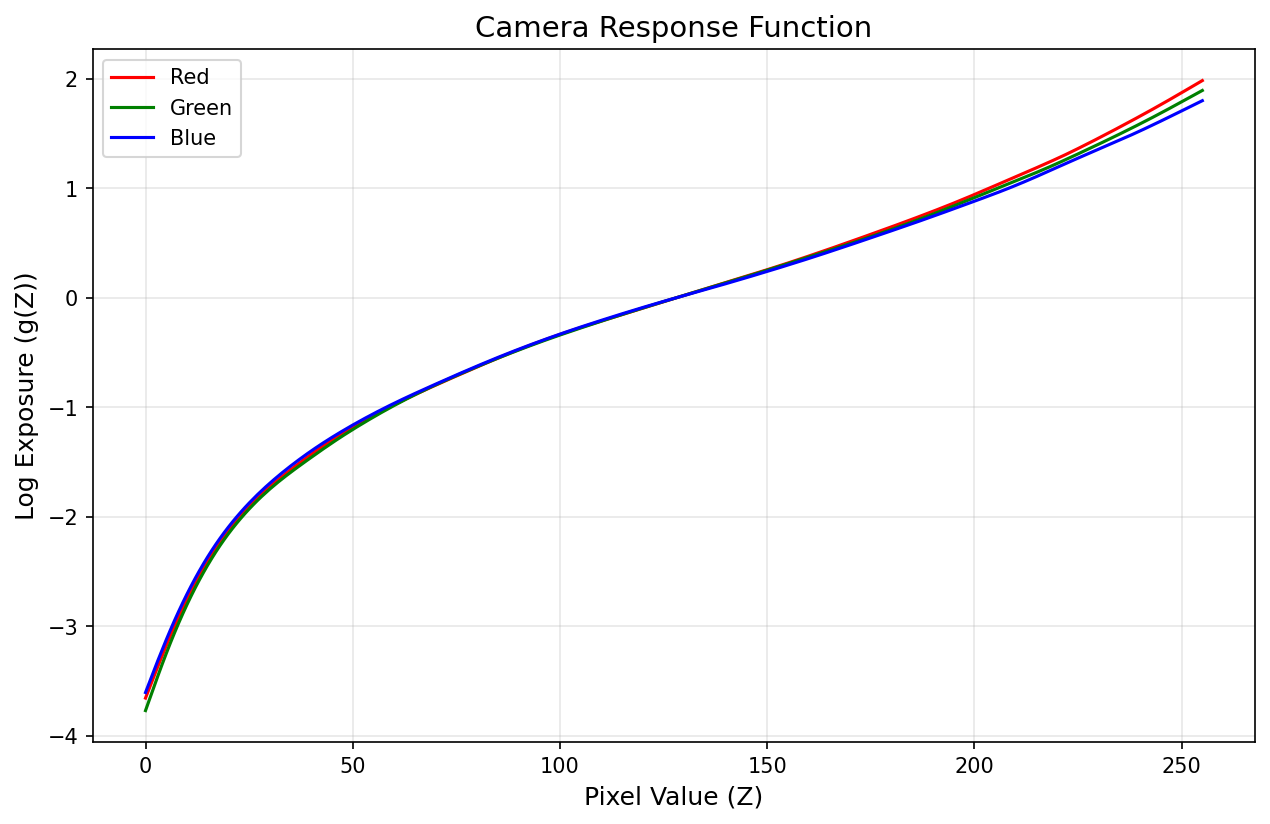
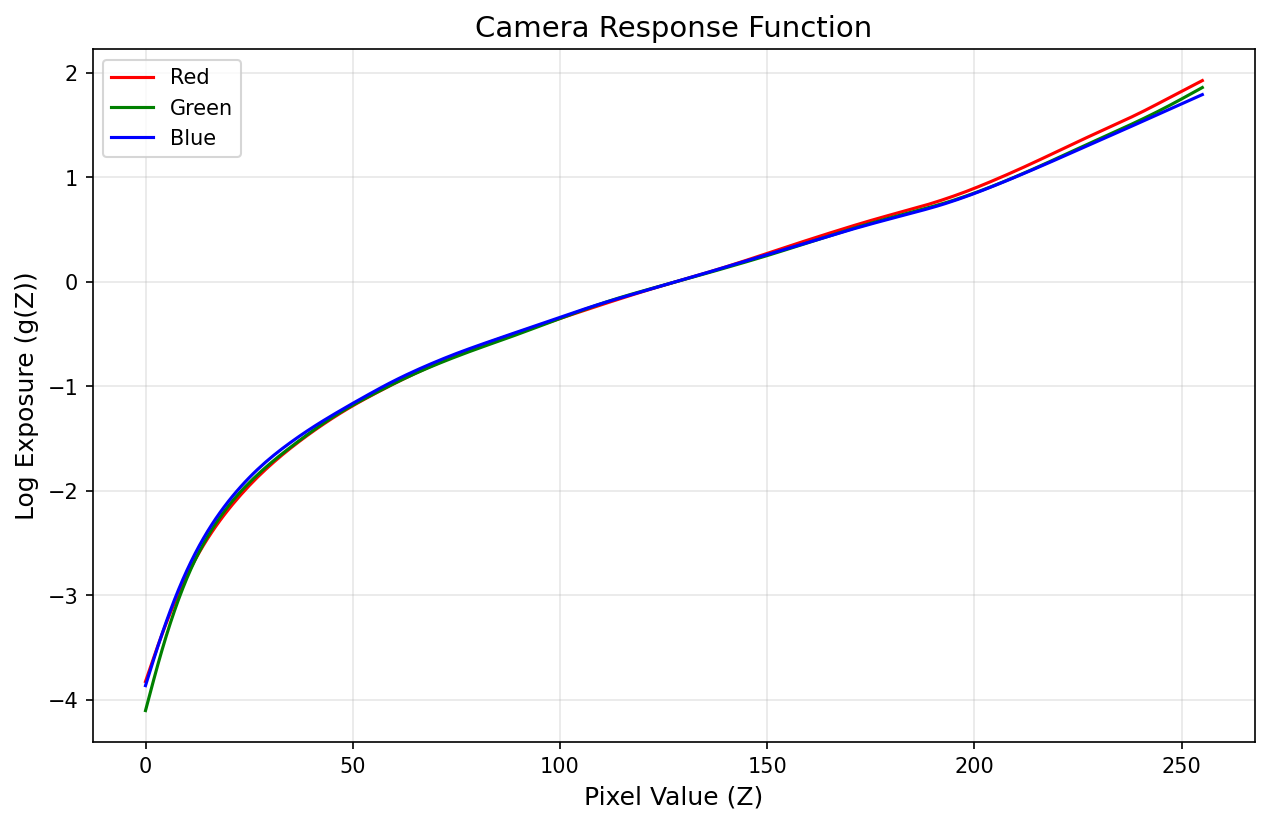
ajout courbe dans l'autre sens set zssimplification code

diff --git a/scripts/create_hdr.py b/scripts/create_hdr.py
@@ -1,0 +1,183 @@
+
+"""
+Script fusionné pour la création d'image HDR à partir de séquences PNG ou JPG.
+Paramètres utilisateurs configurables ci-dessous.
+"""
+
+# === PARAMÈTRES UTILISATEUR ===
+# Type d'images à charger : 'png' ou 'jpg'
+MODE = 'png'  # ou 'jpg'
+# Calculer uniquement les courbes de réponse (True = plus rapide, pas de HDR)
+ONLY_RESPONSE_CURVES = True
+# Chemin du dossier d'entrée (images)
+IMAGE_FOLDER_PNG = "../images/reduced/scene_1"
+IMAGE_FOLDER_JPG = "../images/Images_supop/Scène 1"
+# Chemin de sauvegarde des courbes de réponse
+RESPONSE_CURVE_PATH = 'response_curves.png'
+# Chemin de sauvegarde du fichier HDR
+HDR_OUTPUT_PATH = 'output_hdr.hdr'
+# Nombre de points à sélectionner pour la courbe de réponse
+NUM_SAMPLES = 20
+# Paramètre de lissage lambda
+LAMBDA_SMOOTH = 50.0
+# =============================
+
+import numpy as np
+import matplotlib.pyplot as plt
+from pathlib import Path
+import imageio.v3 as imageio
+from PIL import Image
+from PIL.ExifTags import TAGS
+from debevec import hdr_debevec, save_hdr
+
+def load_exposure_sequence_png(image_folder: str | Path) -> tuple[list[np.ndarray], np.ndarray]:
+    """
+    Charge une séquence d'images PNG (ou PPM) et les temps d'exposition depuis un fichier texte.
+    """
+    image_folder = Path(image_folder)
+    hdr_list_file = image_folder / "hdr_image_list.txt"
+    if not hdr_list_file.exists():
+        raise FileNotFoundError(f"Fichier non trouvé : {hdr_list_file}")
+    print(f"Lecture du fichier : {hdr_list_file}")
+    image_files = []
+    exposure_times = []
+    with open(hdr_list_file, 'r') as f:
+        for line in f:
+            line = line.strip()
+            if line.startswith('#') or not line:
+                continue
+            parts = line.split()
+            if len(parts) >= 2:
+                filename = parts[0]
+                exposure_time = float(1/float(parts[1]))
+                img_path = image_folder / filename
+                if not img_path.exists():
+                    img_path = image_folder / filename.replace('.ppm', '.png')
+                image_files.append(img_path)
+                exposure_times.append(exposure_time)
+    if not image_files:
+        raise ValueError(f"Aucune image trouvée dans {hdr_list_file}")
+    images = []
+    for img_file in image_files:
+        if not img_file.exists():
+            raise FileNotFoundError(f"Image introuvable : {img_file}")
+        img = imageio.imread(img_file)
+        images.append(img)
+    exposure_times = np.array(exposure_times)
+    print(f"Loaded {len(images)} PNG images")
+    print(f"Exposure times: {exposure_times}")
+    return images, exposure_times
+
+def load_exposure_sequence_jpg(image_folder: str | Path) -> tuple[list[np.ndarray], np.ndarray]:
+    """
+    Charge toutes les images JPG d'un dossier et récupère le temps d'exposition depuis les EXIF.
+    """
+    image_folder = Path(image_folder)
+    image_files = sorted([f for f in image_folder.iterdir() if f.suffix.lower() in ['.jpg', '.jpeg']])
+    if not image_files:
+        raise ValueError(f"Aucune image JPG trouvée dans {image_folder}")
+    images = []
+    exposure_times = []
+    for img_path in image_files:
+        img = imageio.imread(img_path)
+        images.append(img)
+        try:
+            pil_img = Image.open(img_path)
+            exif_data = pil_img._getexif()
+            exposure = None
+            if exif_data:
+                for tag, value in exif_data.items():
+                    tag_name = TAGS.get(tag, tag)
+                    if tag_name == 'ExposureTime':
+                        if isinstance(value, tuple) and len(value) == 2:
+                            exposure = value[0] / value[1]
+                        else:
+                            exposure = float(value)
+                        break
+            if exposure is None:
+                print(f"[Avertissement] ExposureTime non trouvé pour {img_path}, valeur par défaut 1.0s utilisée.")
+                exposure = 1.0
+            exposure_times.append(exposure)
+        except Exception as e:
+            print(f"[Erreur] Impossible de lire EXIF pour {img_path}: {e}. Valeur par défaut 1.0s utilisée.")
+            exposure_times.append(1.0)
+    exposure_times = np.array(exposure_times)
+    print(f"Loaded {len(images)} JPG images")
+    print(f"Exposure times: {exposure_times}")
+    return images, exposure_times
+
+def plot_response_curves(response_curves: np.ndarray, save_path: str | None = None) -> None:
+    # Courbe classique : g(Z) en fonction de Z
+    plt.figure(figsize=(10, 6))
+    if response_curves.ndim == 1:
+        plt.plot(range(256), response_curves, 'k-', label='Grayscale')
+    else:
+        colors = ['red', 'green', 'blue']
+        labels = ['Red', 'Green', 'Blue']
+        for i, (color, label) in enumerate(zip(colors, labels)):
+            plt.plot(range(256), response_curves[i], color=color, label=label)
+    plt.xlabel('Pixel Value (Z)', fontsize=12)
+    plt.ylabel('Log Exposure (g(Z))', fontsize=12)
+    plt.title('Camera Response Function', fontsize=14)
+    plt.grid(True, alpha=0.3)
+    plt.legend()
+    if save_path:
+        plt.savefig(save_path, dpi=150, bbox_inches='tight')
+        print(f"Response curve saved to {save_path}")
+    plt.show()
+
+    # Courbe inversée : Z en fonction de g(Z)
+    plt.figure(figsize=(10, 6))
+    if response_curves.ndim == 1:
+        plt.plot(response_curves, range(256), 'k-', label='Grayscale')
+    else:
+        colors = ['red', 'green', 'blue']
+        labels = ['Red', 'Green', 'Blue']
+        for i, (color, label) in enumerate(zip(colors, labels)):
+            plt.plot(response_curves[i], range(256), color=color, label=label)
+    plt.xlabel('Log Exposure (g(Z))', fontsize=12)
+    plt.ylabel('Pixel Value (Z)', fontsize=12)
+    plt.title('Inverse Camera Response Function', fontsize=14)
+    plt.grid(True, alpha=0.3)
+    plt.legend()
+    if save_path:
+        inv_path = save_path.replace('.png', '_inverse.png')
+        plt.savefig(inv_path, dpi=150, bbox_inches='tight')
+        print(f"Inverse response curve saved to {inv_path}")
+    plt.show()
+
+def main():
+    print("=== HDR Image Creation using Debevec Algorithm ===\n")
+
+    if MODE == 'png':
+        image_folder = IMAGE_FOLDER_PNG
+        images, exposure_times = load_exposure_sequence_png(image_folder)
+    else:
+        image_folder = IMAGE_FOLDER_JPG
+        images, exposure_times = load_exposure_sequence_jpg(image_folder)
+
+    print("\nComputing HDR radiance map and response curves...")
+    print("This may take a few moments...")
+    hdr_image, response_curves = hdr_debevec(
+        images=images,
+        exposure_times=exposure_times,
+        lambda_smooth=LAMBDA_SMOOTH,
+        num_samples=NUM_SAMPLES,
+        only_response_curves=ONLY_RESPONSE_CURVES
+    )
+
+    print("\nPlotting camera response curves...")
+    plot_response_curves(response_curves, save_path=RESPONSE_CURVE_PATH)
+
+    if not ONLY_RESPONSE_CURVES:
+        print(f"\nHDR image shape: {hdr_image.shape}")
+        print(f"HDR dynamic range: {hdr_image.min():.6f} to {hdr_image.max():.6f}")
+        print("\nSaving HDR image...")
+        save_hdr(HDR_OUTPUT_PATH, hdr_image)
+        print(f"HDR image saved as: {HDR_OUTPUT_PATH}")
+    else:
+        print("\nAucun fichier HDR n'a été créé (mode courbes de réponse uniquement, calcul HDR ignoré).")
+    print("\n=== Done! ===")
+
+if __name__ == "__main__":
+    main()

diff --git a/scripts/debevec.py b/scripts/debevec.py
@@ -146,8 +146,9 @@ def hdr_debevec(
     images: list[np.ndarray],
     exposure_times: np.ndarray,
     lambda_smooth: float = 50.0,
-    num_samples: int = 10
-) -> tuple[np.ndarray, np.ndarray]:
+    num_samples: int = 10,
+    only_response_curves: bool = False
+) -> tuple[np.ndarray | None, np.ndarray]:
     """
     Create an HDR image using the Debevec and Malik algorithm.
 
@@ -156,8 +157,9 @@ def hdr_debevec(
         exposure_times: Array of exposure times for each image
         lambda_smooth: Smoothness parameter for the response curve (default: 50)
         num_samples: Number of pixels to sample for computing response curve (default: 10)
+        only_response_curves: Si True, ne calcule que les courbes de réponse (plus rapide)
     Returns:
-        hdr_image: The resulting HDR radiance map
+        hdr_image: The resulting HDR radiance map (ou None si only_response_curves)
         response_curve: The computed camera response function for each channel
     """
     num_images = len(images)
@@ -181,12 +183,11 @@ def hdr_debevec(
     
     sample_x, sample_y = select_points_interactive(median_image, num_samples)
 
-    # Initialize response curves and HDR image
+    # Initialisation des courbes de réponse
     response_curves = []
-    hdr_image = np.zeros((height, width, num_channels))
+    hdr_image = None if only_response_curves else np.zeros((height, width, num_channels))
 
     # Process each color channel
-
     for channel in range(num_channels):
         print(f"\n[DEBUG] Traitement du canal {channel+1}/{num_channels}...")
         # Extract pixel values for sampled locations
@@ -205,32 +206,34 @@ def hdr_debevec(
         response_curves.append(g)
         print(f"[DEBUG] Courbe de réponse calculée pour le canal {channel+1}.")
 
-        # Reconstruct the HDR image for this channel
-        print(f"[DEBUG] Reconstruction de l'image HDR pour le canal {channel+1}...")
-        for y in range(height):
-            if y % max(1, height // 10) == 0:
-                print(f"[DEBUG]   Canal {channel+1}: {int(100*y/height)}% des lignes traitées...")
-            for x in range(width):
-                # Get pixel values across all exposures
-                if num_channels == 1:
-                    pixel_values = np.array([img[y, x] for img in images])
-                else:
-                    pixel_values = np.array([img[y, x, channel] for img in images])
+        if not only_response_curves:
+            # Reconstruct the HDR image for this channel
+            print(f"[DEBUG] Reconstruction de l'image HDR pour le canal {channel+1}...")
+            for y in range(height):
+                if y % max(1, height // 10) == 0:
+                    print(f"[DEBUG]   Canal {channel+1}: {int(100*y/height)}% des lignes traitées...")
+                for x in range(width):
+                    # Get pixel values across all exposures
+                    if num_channels == 1:
+                        pixel_values = np.array([img[y, x] for img in images])
+                    else:
+                        pixel_values = np.array([img[y, x, channel] for img in images])
 
-                # Weighted average of log irradiance
-                numerator = 0.0
-                denominator = 0.0
-                for j, z in enumerate(pixel_values):
-                    wz = w[z]
-                    numerator += wz * (g[z] - B[j])
-                    denominator += wz
+                    # Weighted average of log irradiance
+                    numerator = 0.0
+                    denominator = 0.0
+                    for j, z in enumerate(pixel_values):
+                        wz = w[z]
+                        numerator += wz * (g[z] - B[j])
+                        denominator += wz
 
-                if denominator > 0:
-                    hdr_image[y, x, channel] = np.exp(numerator / denominator)
-        print(f"[DEBUG] Canal {channel+1} terminé.")
+                    if denominator > 0:
+                        hdr_image[y, x, channel] = np.exp(numerator / denominator)
+            print(f"[DEBUG] Canal {channel+1} terminé.")
 
     response_curves = np.array(response_curves).squeeze()
-    hdr_image = hdr_image.squeeze()
+    if not only_response_curves:
+        hdr_image = hdr_image.squeeze()
 
     return hdr_image, response_curves
 
